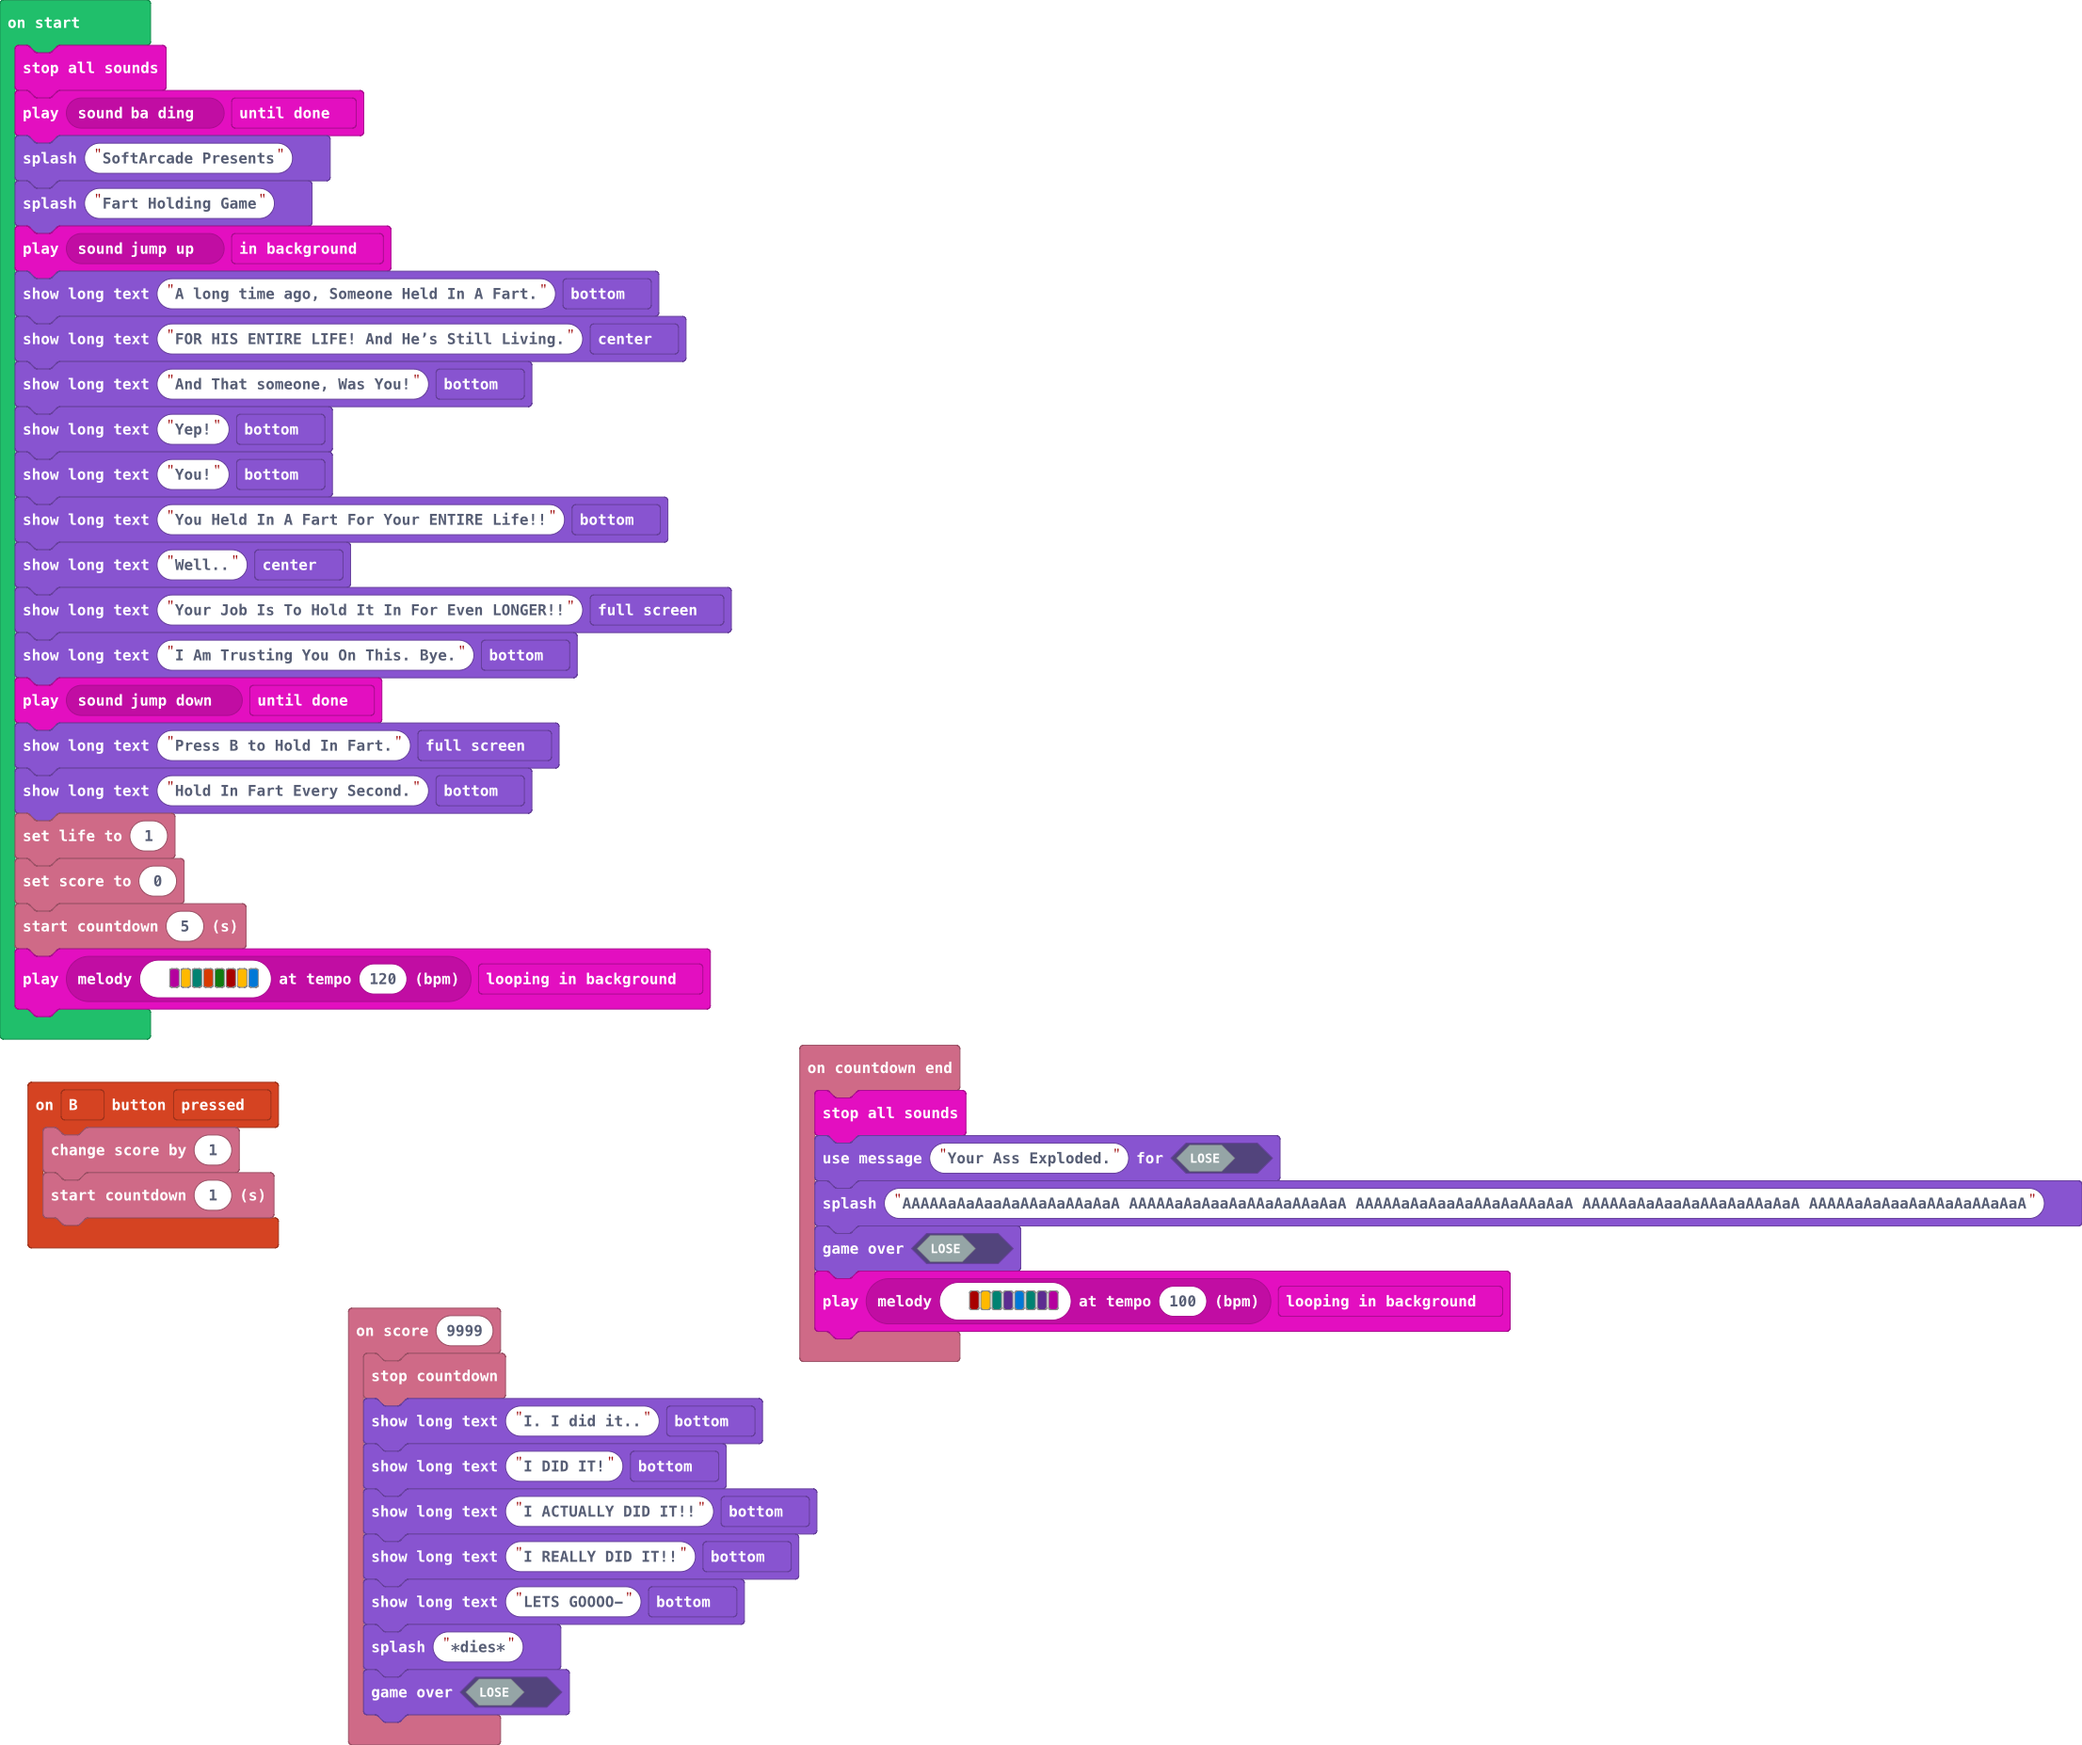
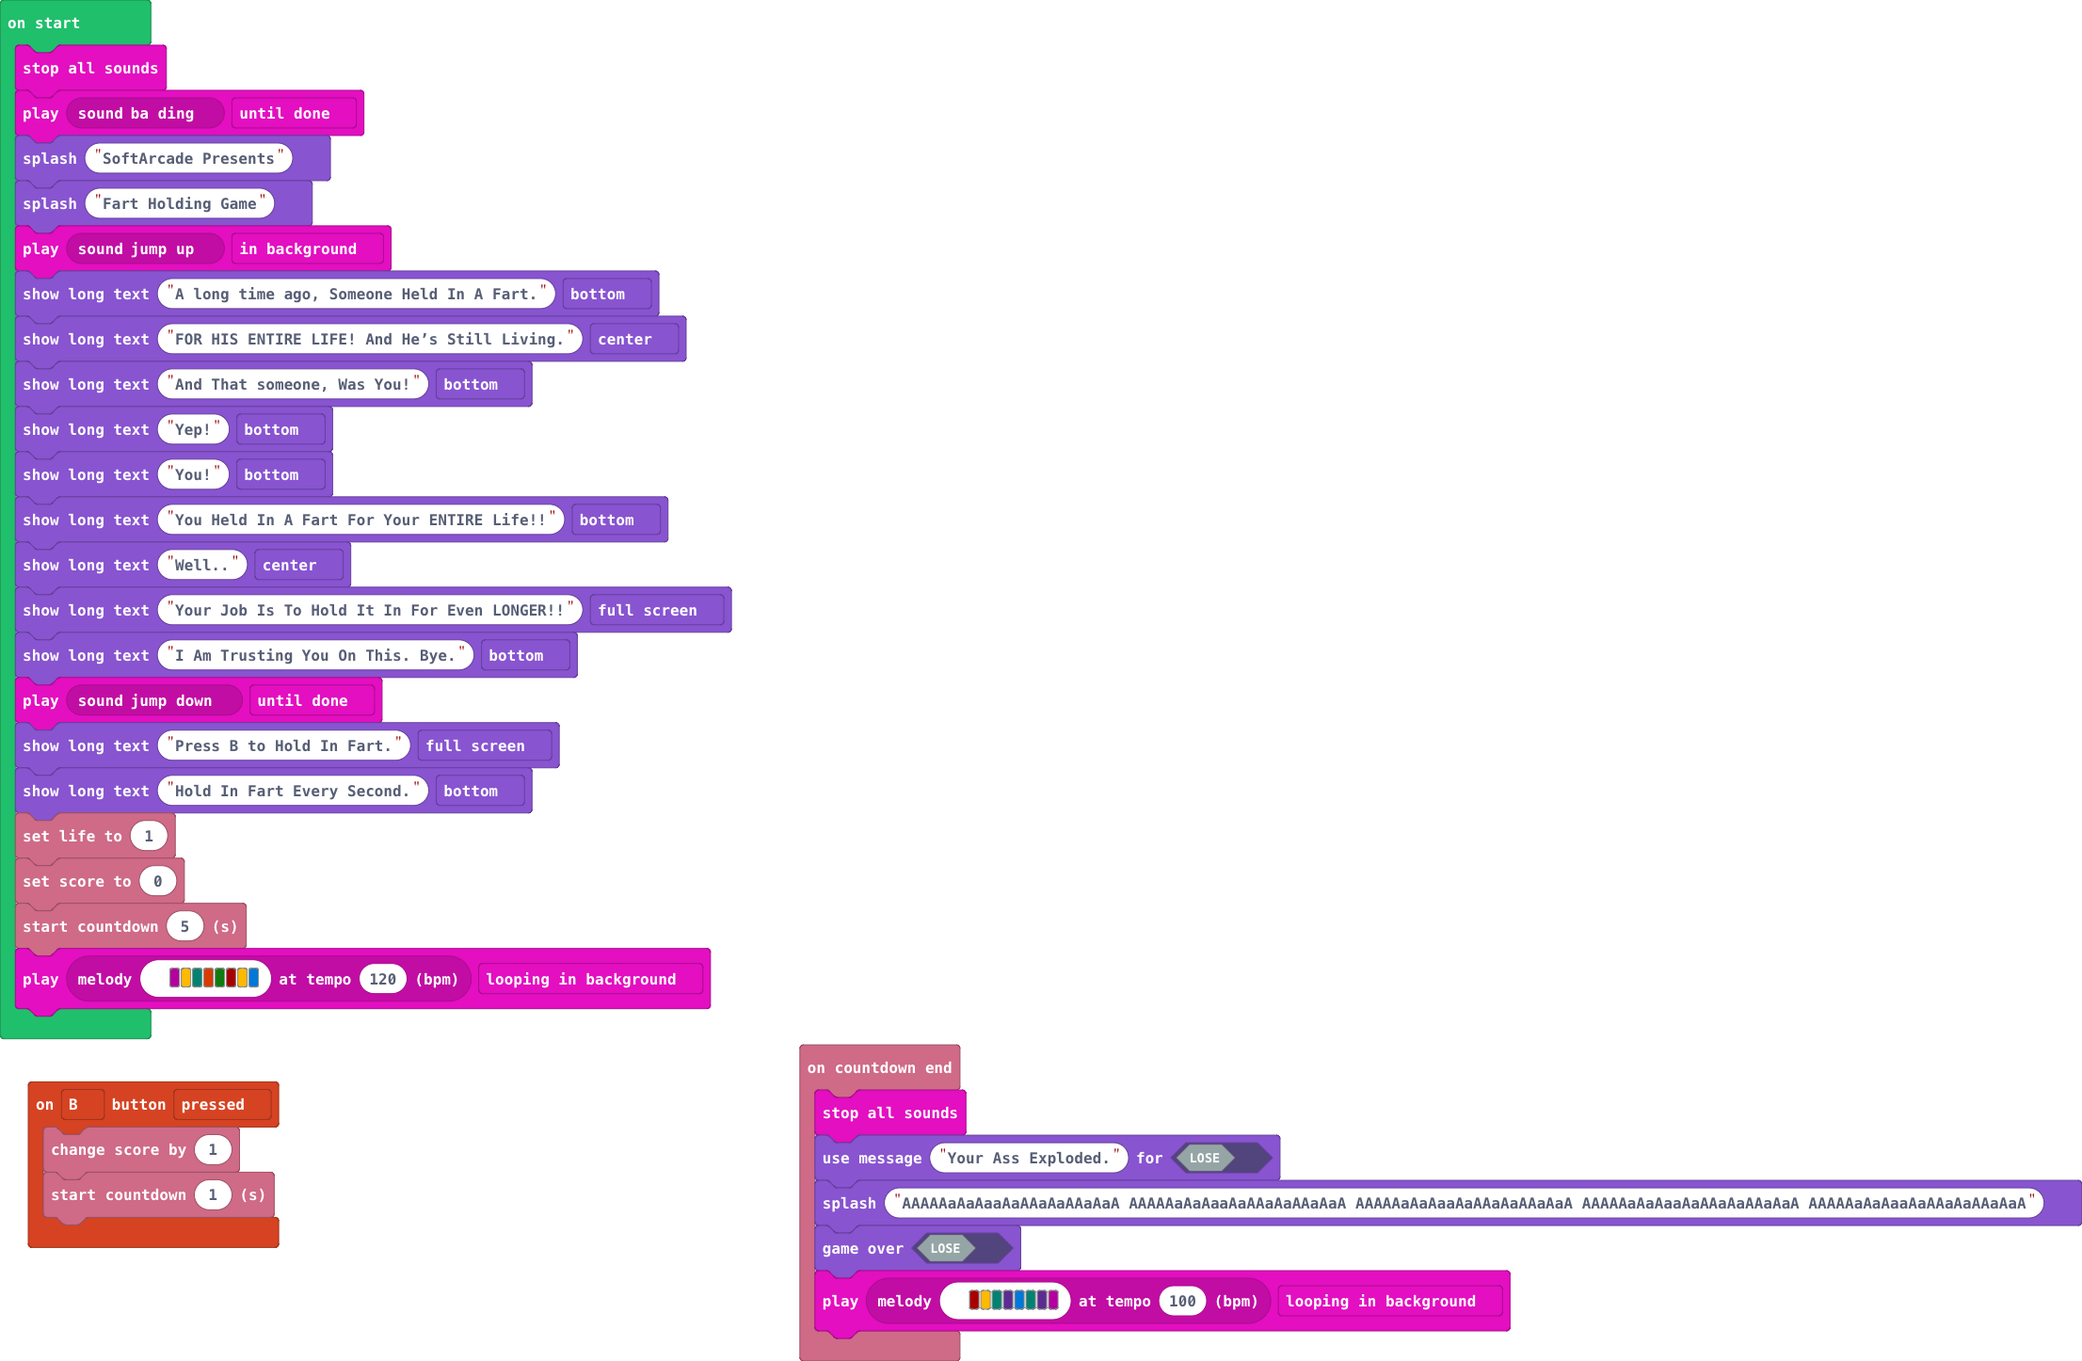
Update main.blocks, main.ts

Changed region(s): [[0.0, 0.0, 1.0, 1.0]]

diff --git a/main.ts b/main.ts
@@ -2,16 +2,6 @@ controller.B.onEvent(ControllerButtonEvent.Pressed, function () {
     info.changeScoreBy(1)
     info.startCountdown(1)
 })
-info.onScore(9999, function () {
-    info.stopCountdown()
-    game.showLongText("I. I did it..", DialogLayout.Bottom)
-    game.showLongText("I DID IT!", DialogLayout.Bottom)
-    game.showLongText("I ACTUALLY DID IT!!", DialogLayout.Bottom)
-    game.showLongText("I REALLY DID IT!!", DialogLayout.Bottom)
-    game.showLongText("LETS GOOOO-", DialogLayout.Bottom)
-    game.splash("*dies*")
-    game.gameOver(false)
-})
 info.onCountdownEnd(function () {
     music.stopAllSounds()
     game.setGameOverMessage(false, "Your Ass Exploded.")
